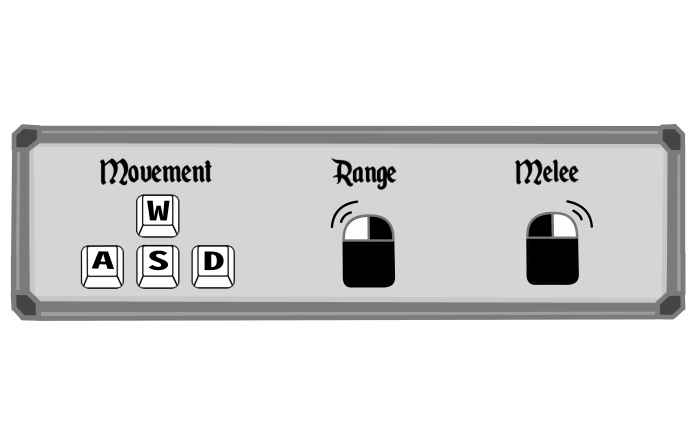
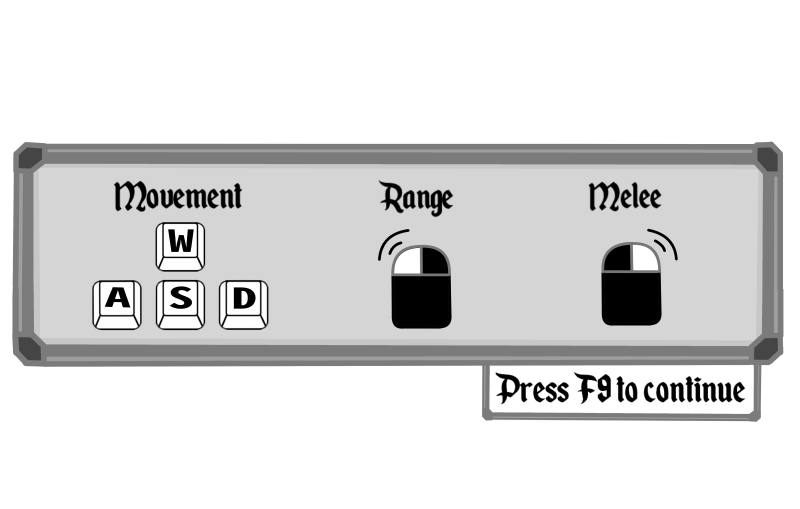
Updated control.png and story-intro.png

diff --git a/src/main/java/deco2800/thomas/managers/TextureManager.java b/src/main/java/deco2800/thomas/managers/TextureManager.java
@@ -107,7 +107,7 @@ public class TextureManager extends AbstractManager {
 			textureMap.put("stash", new Texture("resources/storyline/object/stash.png"));
 			textureMap.put("barrel", new Texture("resources/storyline/object/barrel.png"));
 			textureMap.put("chest", new Texture("resources/storyline/object/chest.png"));
-			textureMap.put("dialog-box", new Texture("resources/storyline/guideline.png"));
+			textureMap.put("dialog-box", new Texture("resources/storyline/story-intro.png"));
 			textureMap.put("orb", new Texture("resources/orb.png"));
 			textureMap.put("victory", new Texture("resources/storyline/victory-screen.png"));
 			textureMap.put("defeat", new Texture("resources/storyline/defeat-screen.png"));
